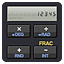
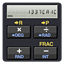
Fixed a calculator resize bug when the calculator is started with a notification panel present. Wrote first chapter of the help section.

diff --git a/app/views/help2/help2-scene.html b/app/views/help2/help2-scene.html
@@ -4,8 +4,53 @@
 	</div>
 	<div class="aboutcontent">
 		<h1>Fundamentals</h1>
-		<p>Lorem ipsum dolor sit amet, consectetur adipiscing elit. Fusce eu diam eu nisl malesuada lobortis. Duis non leo neque, id semper turpis. Nam id ipsum mauris, eget ultrices sapien. Proin a quam at lorem feugiat dapibus id sit amet arcu. Maecenas in quam nisl, at lacinia mi.</p>
-		<p>Proin et vehicula urna. Praesent malesuada est vel purus condimentum cursus. Etiam adipiscing varius diam, sed vehicula quam euismod ut. Cras convallis, est at accumsan pretium, nibh est consectetur massa, at varius augue lacus vel lorem. Vivamus malesuada purus ac erat tincidunt ultricies.</p>
-		<p>Proin ac libero libero, et euismod nisi. In in commodo justo. Nulla metus erat, placerat in ultrices ac, mattis nec sem. Proin id justo non lectus volutpat sodales. Pellentesque sagittis sapien nec nibh facilisis scelerisque. Phasellus eget placerat lectus. Nulla dapibus magna vitae enim gravida semper interdum dolor pellentesque. Mauris et orci elit.</p>
+		<h2>Keyboard operation</h2>
+		<p>All keys on the calculator serve at least one function. Many keys have secondary or tertiary functions which can be accessed by using <img src="images/help/btn_f.png" alt="f" /> or <img src="images/help/btn_g.png" alt="g" />. We call these functions <strong>f-shifted</strong> and <strong>g-shifted</strong> functions.</p>
+		<h3>Example</h3>
+		<p>Press <img src="images/help/btn_g.png" alt="g" /> <img src="images/help/btn_ex.png" alt="g" /> to calculate the natural logarith of the value that was in the display before pressing the sequence.</p>
+		<p>Press <img src="images/help/btn_f.png" alt="f" /> <img src="images/help/btn_enter.png" alt="enter" /> to generate a random number.</p>
+		<h2>Prefix keys</h2>
+		<p>Prefix keys are keys that must precede another key to complete the key sequence for a function. Certain functions require a prefix key and another key to complete the function. For your reference below are all available prefix keys:</p>
+		<p class="buttonsequence"><img src="images/help/btn_sto.png" alt="sto" /> <img src="images/help/btn_rcl.png" alt="rcl" /> <img src="images/help/btn_g.png" alt="g" /> <img src="images/help/btn_f.png" alt="f" /> <img src="images/help/btn_hyp.png" alt="hyp" /></p>
+		<p>A few functions require a sequence of two keypresses as their prefix:</p>
+		<p class="buttonsequence"><img src="images/help/btn_g.png" alt="g" /> <img src="images/help/btn_four.png" alt="four" /><br /><img src="images/help/btn_g.png" alt="g" /> <img src="images/help/btn_five.png" alt="five" /><br /><img src="images/help/btn_g.png" alt="g" /> <img src="images/help/btn_six.png" alt="six" /></p>
+		<h2>Changing signs</h2>
+		<p>Press <img src="images/help/btn_chs.png" alt="chs" />to change the sign of any number in the display. To enter a negative number, key in the number and press <img src="images/help/btn_chs.png" alt="chs" /></p>
+		<h2>Exponents</h2>
+		<p><img src="images/help/btn_eex.png" alt="eex" /> is used to enter numbers with an exponent. To enter 15<sup>3</sup> use:</p>
+		<p class="buttonsequence"><img src="images/help/btn_one.png" alt="1" /> <img src="images/help/btn_five.png" alt="5" /> <img src="images/help/btn_eex.png" alt="eex" /> <img src="images/help/btn_three.png" alt="3" /></p>
+		<p>To enter a negative exponent use the g-shifted EEX- function. To enter 5<sup>-2</sup> use:</p>
+		<p class="buttonsequence"><img src="images/help/btn_five.png" alt="5" /> <img src="images/help/btn_g.png" alt="g" /> <img src="images/help/btn_eex.png" alt="eex" /> <img src="images/help/btn_two.png" alt="2" /></p>
+		<h2>Clearing</h2>
+		<p>To erase a digit, use the <img src="images/help/btn_backspace.png" alt="backspace" /> key. Every press will erase one digit of the currently entered value. If the value in the display is the result of an earlier used function the entire value will be erased with one press of <img src="images/help/btn_backspace.png" alt="backspace" /></p>
+		<p>To clear the statistics registers, use <img src="images/help/btn_f.png" alt="f" /> <img src="images/help/btn_sigmaplus.png" alt="sigmaplus" />.</p>
+		<p>To clear the stack, use <img src="images/help/btn_g.png" alt="g" /> <img src="images/help/btn_rcl.png" alt="rcl" />.</p> 
+		<p>You will learn more about the stack in chapter 4.</p>
+		<h2>Calculations</h2>
+		<h3>One number functions</h3>
+		<p>A one number function performs a calculation using only the number in the display. For example, to calculate the sine of 12, press:</p>
+		<p class="buttonsequence"><img src="images/help/btn_one.png" alt="1" /> <img src="images/help/btn_two.png" alt="2" /> <img src="images/help/btn_sin.png" alt="sin" /></p>
+		<h3>Two number functions and <img src="images/help/btn_enter.png" alt="enter" /></h3>
+		<p>A two number function needs two values to be entered into the calculator before it can be used. The best examples of two number functions are:</p>
+		<p class="buttonsequence"><img src="images/help/btn_plus.png" alt="plus" /> <img src="images/help/btn_minus.png" alt="minus" /> <img src="images/help/btn_multiply.png" alt="multiply" /> <img src="images/help/btn_divide.png" alt="divide" /></p>
+		<p>To terminate the entry of digits, use <img src="images/help/btn_enter.png" alt="enter" />. So, if we want to calculate 12+3 we would enter:</p>
+		<p class="buttonsequence"><img src="images/help/btn_one.png" alt="1" /> <img src="images/help/btn_two.png" alt="2" /> <img src="images/help/btn_enter.png" alt="enter" /> <img src="images/help/btn_three.png" alt="3" /> <img src="images/help/btn_plus.png" alt="plus" /></p>
+		<p>Besides <img src="images/help/btn_enter.png" alt="enter" />, all functions serve as digit entry terminators. Therefore after using a function you don't have to press <img src="images/help/btn_enter.png" alt="enter" />. For example if we want to calculate sin(3) + 6 we use:</p>
+		<p class="buttonsequence"><img src="images/help/btn_three.png" alt="3" /> <img src="images/help/btn_sin.png" alt="sin" /> <img src="images/help/btn_six.png" alt="6" /> <img src="images/help/btn_plus.png" alt="plus" /></p>
+		<p>As you can see, it is not necessary to press enter after calculating sin(3).</p>
+		<h3>Chain calculations</h3>
+		<p><ul><li><img src="images/help/btn_enter.png" alt="enter" /> is only used to terminate sequential input of numbers.</li><li>Operator keys such as <img src="images/help/btn_plus.png" alt="plus" /> are only used after both values have been entered into the calculator.</li><li>The result of any operation may itself become an operand. The intermediate results are stored and retrieved through the last-in, first-out principle. New digits entered after an operation serve as new numbers.</li></ul>
+		<p>For example, to calculate (5 + 4 - 6) / 3 we use:</p>
+		<p class="buttonsequence"><img src="images/help/btn_five.png" alt="5" /> <img src="images/help/btn_enter.png" alt="enter" /> <img src="images/help/btn_four.png" alt="4" /> <img src="images/help/btn_plus.png" alt="plus" /> <img src="images/help/btn_six.png" alt="6" /> <img src="images/help/btn_minus.png" alt="minus" /> <img src="images/help/btn_three.png" alt="3" /> <img src="images/help/btn_divide.png" alt="divide" /></p>
+		<p>Notice that <img src="images/help/btn_enter.png" alt="enter" /> is not needed after using an operator key. Also notice that brackets (which are not available on this calculator) are not needed. They are NEVER needed on an RPN calculator.</p>
+		<p>Here's a more complicated example. Let's calculate (5 + 7) x (34-2). We use:</p>
+		<p class="buttonsequence"><img src="images/help/btn_five.png" alt="5" /> <img src="images/help/btn_enter.png" alt="enter" /> <img src="images/help/btn_seven.png" alt="7" /> <img src="images/help/btn_plus.png" alt="plus" /></p>
+		<p>We now have the result of (5 + 7) which is automatically stored as an intermediate result.</p>
+		<p class="buttonsequence"><img src="images/help/btn_three.png" alt="3" /> <img src="images/help/btn_four.png" alt="4" /> <img src="images/help/btn_enter.png" alt="enter" /> <img src="images/help/btn_two.png" alt="2" /> <img src="images/help/btn_minus.png" alt="minus" /></p> 
+		<p>We now have the result of (34-2) which is also stored as an intermediate result.</p>
+		<p class="buttonsequence"><img src="images/help/btn_multiply.png" alt="multiply" /></p>
+		<p>The first intermediate result is now multiplied by the second intermediate result and the result in the calculation is in the display.</p>
+		<p>Again, no brackets were needed. How awesome!</p>
+		<p>Now where did those intermediate results go and how is it possible that the calculator magically remembers everything to complete the calculation successfully, you may wonder. The answer lies in what we call the stack. You'll learn everything about the stack in chapter 4.</p> 
 	</div>	
 </div>

diff --git a/app/views/help1/help1-scene.html b/app/views/help1/help1-scene.html
@@ -4,8 +4,8 @@
 	</div>
 	<div class="aboutcontent">
 		<h1>Introduction</h1>
-		<p>Congratulations! You have just installed the most advanced scientific calculator available on the WebOS platform. This application contains an ever growing amount of scientific and statistics functionality packed in a compact and attractive interface.</p>
+		<p>Congratulations! You have just installed the most advanced scientific calculator available on the WebOS platform. In fact, it may very well be the most advanced calculator ever written in Javascript. This application contains an ever growing amount of scientific and statistics functionality packed in a compact and attractive interface.</p>
 		<h2>Help is here!</h2>
-		<p>Because of the large amount of available functions in this application, help may sometimes be needed. This section will introduce you to the basic knowledge you need to get started with the calculator. The other chapters contain in depth explanation of every available calculator function.</p>
+		<p>Because of the large amount of available functions in this application, help may sometimes be needed. The next section will introduce you to the basic knowledge you need to get started with the calculator. The other chapters contain in depth explanation of every available calculator function.</p>
 	</div>	
 </div>

diff --git a/app/views/help3/help3-scene.html b/app/views/help3/help3-scene.html
@@ -4,8 +4,6 @@
 	</div>
 	<div class="aboutcontent">
 		<h1>The Stack and Data Storage</h1>
-		<p>Lorem ipsum dolor sit amet, consectetur adipiscing elit. Fusce eu diam eu nisl malesuada lobortis. Duis non leo neque, id semper turpis. Nam id ipsum mauris, eget ultrices sapien. Proin a quam at lorem feugiat dapibus id sit amet arcu. Maecenas in quam nisl, at lacinia mi.</p>
-		<p>Proin et vehicula urna. Praesent malesuada est vel purus condimentum cursus. Etiam adipiscing varius diam, sed vehicula quam euismod ut. Cras convallis, est at accumsan pretium, nibh est consectetur massa, at varius augue lacus vel lorem. Vivamus malesuada purus ac erat tincidunt ultricies.</p>
-		<p>Proin ac libero libero, et euismod nisi. In in commodo justo. Nulla metus erat, placerat in ultrices ac, mattis nec sem. Proin id justo non lectus volutpat sodales. Pellentesque sagittis sapien nec nibh facilisis scelerisque. Phasellus eget placerat lectus. Nulla dapibus magna vitae enim gravida semper interdum dolor pellentesque. Mauris et orci elit.</p>
+		<p>Coming soon.</p>
 	</div>	
 </div>

diff --git a/app/views/help4/help4-scene.html b/app/views/help4/help4-scene.html
@@ -4,8 +4,6 @@
 	</div>
 	<div class="aboutcontent">
 		<h1>Numeric Functions</h1>
-		<p>Lorem ipsum dolor sit amet, consectetur adipiscing elit. Fusce eu diam eu nisl malesuada lobortis. Duis non leo neque, id semper turpis. Nam id ipsum mauris, eget ultrices sapien. Proin a quam at lorem feugiat dapibus id sit amet arcu. Maecenas in quam nisl, at lacinia mi.</p>
-		<p>Proin et vehicula urna. Praesent malesuada est vel purus condimentum cursus. Etiam adipiscing varius diam, sed vehicula quam euismod ut. Cras convallis, est at accumsan pretium, nibh est consectetur massa, at varius augue lacus vel lorem. Vivamus malesuada purus ac erat tincidunt ultricies.</p>
-		<p>Proin ac libero libero, et euismod nisi. In in commodo justo. Nulla metus erat, placerat in ultrices ac, mattis nec sem. Proin id justo non lectus volutpat sodales. Pellentesque sagittis sapien nec nibh facilisis scelerisque. Phasellus eget placerat lectus. Nulla dapibus magna vitae enim gravida semper interdum dolor pellentesque. Mauris et orci elit.</p>
+		<p>Coming soon.</p>
 	</div>	
 </div>

diff --git a/app/controllers/help-assistant.js b/app/controllers/help-assistant.js
@@ -13,7 +13,8 @@ var HelpAssistant = Class.create({
 			{id: 'c2', label: '2', value: 'Fundamentals'},
 			{id: 'c3', label: '3', value: 'The Stack and Data Storage'},
 			{id: 'c4', label: '4', value: 'Numeric Functions'},
-			{id: 'c5', label: '5', value: 'Statistics Functions'}
+			{id: 'c5', label: '5', value: 'Statistics Functions'},
+			{id: 'c6', label: '6', value: 'Key Quick Reference'}
 		];
 
 		this.controller.setupWidget("helpcontents",

diff --git a/app/views/about/about-scene.html b/app/views/about/about-scene.html
@@ -1,6 +1,6 @@
 <div id="about" class="palm-dark">
 	<div class="palm-header left">
-		Scientific RPN Calculator 1.0B36
+		Scientific RPN Calculator 1.0B37
 	</div>
 	<div class="aboutcontent">
 		<p><strong>Beta version! Not to be used for rocket science just yet!</strong><br />

diff --git a/app/views/help6/help5-scene.html b/app/views/help6/help5-scene.html
@@ -1,9 +1,9 @@
 <div class="helppage" class="palm-dark">
 	<div class="palm-header left">
-		Chapter 5
+		Chapter 6
 	</div>
 	<div class="aboutcontent">
-		<h1>Statistics Functions</h1>
+		<h1>Key Quick Reference</h1>
 		<p>Coming soon.</p>
 	</div>	
 </div>

diff --git a/app/controllers/helppage-assistant.js b/app/controllers/helppage-assistant.js
@@ -10,3 +10,4 @@ var Help2Assistant = Class.create({});
 var Help3Assistant = Class.create({});
 var Help4Assistant = Class.create({});
 var Help5Assistant = Class.create({});
+var Help6Assistant = Class.create({});

diff --git a/stylesheets/calculator.css b/stylesheets/calculator.css
@@ -307,5 +307,8 @@
 }
 .helppage p {
 	padding: 0;
-	font-size: 15px;
+	font-size: 16px;
+}
+.helppage p.buttonsequence {
+	margin: 10px 0;
 }
